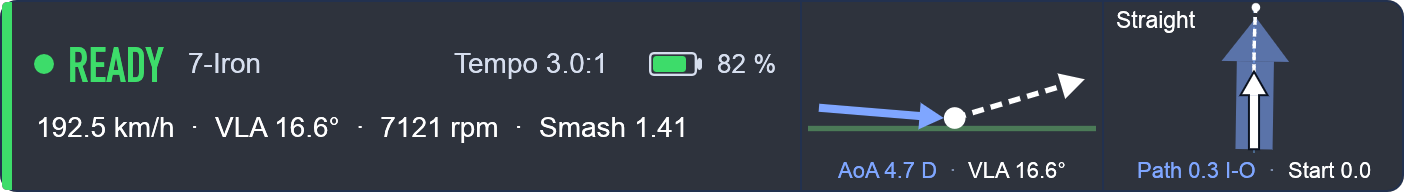
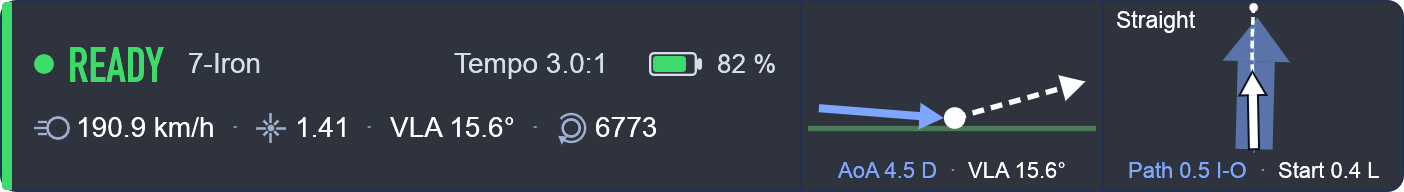
Overlay: symbols instead of words, speeds and smash side by side
Ball speed, club speed, smash, spin and distance to the pin get painted
symbols (ball with speed lines, club, burst, ball with arrow, flag) in
place of their labels; the speeds and the smash factor come first.

diff --git a/src/bin/openlaunch-connect.rs b/src/bin/openlaunch-connect.rs
@@ -1697,6 +1697,8 @@ struct OverlayContent {
     battery: Option<u8>,
     line: String,
     line_color: Color32,
+    /// The shot's values, each with its symbol (shown instead of `line` when there are any).
+    values: Vec<(Option<Glyph>, String)>,
     one_line: bool,
     opacity: f32,
     /// Angles for the impact graphics (when on and a shot is shown).
@@ -1741,18 +1743,19 @@ impl OverlayContent {
             .and_then(|s| s.tempo)
             .filter(|_| style.tempo && ready)
             .map(|t| format!("{} {:.1}:1", tr("Tempo"), t.ratio()));
+        let mut values = Vec::new();
         let (line, line_color) = match (last, ready) {
             (_, false) if r10 != R10Status::Ready => (tr_detail(r10_detail), AMBER),
             (_, false) => (tr("GSPro not connected").to_string(), AMBER),
             (Some(s), true) if !s.delivered => (tr("Last shot NOT delivered to GSPro").to_string(), AMBER),
             (Some(s), true) => {
-                let mut values = shot_values(s, style, metric);
-                values.extend(pin.filter(|_| style.to_pin));
+                values = shot_values(s, style, metric);
+                values.extend(pin.filter(|_| style.to_pin).map(|p| (Some(Glyph::Pin), p)));
                 // One line: the tempo joins the values instead of sitting next to the battery.
                 if style.one_line {
-                    values.extend(tempo.clone());
+                    values.extend(tempo.clone().map(|t| (None, t)));
                 }
-                (values.join("  ·  "), WHITE)
+                (String::new(), WHITE)
             }
             (None, true) => (tr("Hit away").to_string(), SOFT),
         };
@@ -1774,6 +1777,7 @@ impl OverlayContent {
             battery: battery.filter(|_| style.battery),
             line,
             line_color,
+            values,
             one_line: style.one_line,
             opacity: style.opacity,
         }
@@ -1784,13 +1788,21 @@ impl OverlayContent {
         let w = |text: &str, font: FontId| ctx.fonts_mut(|f| f.layout_no_wrap(text.to_string(), font, WHITE).size().x);
         let extra = |text: &Option<String>, gap: f32| text.as_deref().map_or(0.0, |t| gap + w(t, FontId::proportional(14.0)));
         let battery = if self.battery.is_some() { OVERLAY_BATTERY_W } else { 14.0 };
+        // The values with their symbols, or the message.
+        let line_w = if self.values.is_empty() {
+            w(&self.line, FontId::proportional(14.0))
+        } else {
+            let sep = w(VALUE_SEP, FontId::proportional(14.0));
+            self.values.iter().map(|(g, t)| w(t, FontId::proportional(14.0)) + if g.is_some() { GLYPH_W } else { 0.0 }).sum::<f32>()
+                + sep * (self.values.len() - 1) as f32
+        };
         let text = if self.one_line {
-            let line = if self.line.is_empty() { 0.0 } else { 16.0 + w(&self.line, FontId::proportional(14.0)) };
+            let line = if line_w == 0.0 { 0.0 } else { 16.0 + line_w };
             let width = 18.0 + 16.0 + w(self.word, cond(20.0)) + extra(&self.club, 12.0) + line + battery;
             vec2(width.ceil(), 40.0)
         } else {
             let top = 18.0 + 16.0 + w(self.word, cond(24.0)) + extra(&self.club, 12.0) + extra(&self.tempo, 24.0) + battery;
-            let bottom = 18.0 + w(&self.line, FontId::proportional(14.0)) + 14.0;
+            let bottom = 18.0 + line_w + 14.0;
             // Taller with the impact graphics, which have their values underneath.
             let h = if self.impact.is_some() { OVERLAY_IMPACT_H } else { OVERLAY_SIZE.y };
             vec2(top.max(bottom).max(OVERLAY_SIZE.x).ceil(), h)
@@ -1806,35 +1818,37 @@ impl OverlayContent {
 }
 
 /// The chosen values of a shot, e.g. "198.3 km/h", "VLA 16.5°", "7146 rpm".
-/// "Pin 139 m": the distance left to the pin, in metres or yards.
+/// "139 m": the distance left to the pin, in metres or yards (shown after a flag).
 fn pin_text(m: f64, meters: bool) -> String {
-    if meters { format!("{} {m:.0} m", tr("Pin")) } else { format!("{} {:.0} yd", tr("Pin"), m * M_TO_YD) }
+    if meters { format!("{m:.0} m") } else { format!("{:.0} yd", m * M_TO_YD) }
 }
 
-fn shot_values(s: &state::LastShot, style: &OverlayStyle, metric: bool) -> Vec<String> {
+/// The chosen values of a shot with their symbols: the speeds and the smash factor side by side,
+/// then the angles and the spin.
+fn shot_values(s: &state::LastShot, style: &OverlayStyle, metric: bool) -> Vec<(Option<Glyph>, String)> {
     let (factor, unit) = if metric { (MPH_TO_KMH, "km/h") } else { (1.0, "mph") };
     let b = &s.ball;
     let mut values = Vec::new();
     if style.ball_speed {
-        values.push(format!("{:.1} {unit}", b.speed * factor));
-    }
-    if style.vla {
-        values.push(format!("VLA {}°", num(b.vla, 1)));
-    }
-    if style.hla {
-        values.push(format!("HLA {}°", num(b.hla, 1)));
-    }
-    if style.spin {
-        values.push(format!("{:.0} rpm", b.total_spin));
-    }
-    if style.spin_axis {
-        values.push(format!("{} {}°", tr("Axis"), num(b.spin_axis, 1)));
+        values.push((Some(Glyph::BallSpeed), format!("{:.1} {unit}", b.speed * factor)));
     }
     if let Some(c) = s.club.as_ref().filter(|_| style.club_speed) {
-        values.push(format!("{} {:.1} {unit}", tr("Club"), c.speed * factor));
+        values.push((Some(Glyph::ClubSpeed), format!("{:.1} {unit}", c.speed * factor)));
     }
     if let Some(smash) = history::smash(b, s.club.as_ref()).filter(|_| style.smash) {
-        values.push(format!("Smash {smash:.2}"));
+        values.push((Some(Glyph::Smash), format!("{smash:.2}")));
+    }
+    if style.vla {
+        values.push((None, format!("VLA {}°", num(b.vla, 1))));
+    }
+    if style.hla {
+        values.push((None, format!("HLA {}°", num(b.hla, 1))));
+    }
+    if style.spin {
+        values.push((Some(Glyph::Spin), format!("{:.0}", b.total_spin)));
+    }
+    if style.spin_axis {
+        values.push((None, format!("{} {}°", tr("Axis"), num(b.spin_axis, 1))));
     }
     values
 }
@@ -1880,7 +1894,99 @@ fn overlay_ui(p: &egui::Painter, rect: Rect, c: &OverlayContent) {
         p.text(pos2(right, row_y), Align2::RIGHT_CENTER, tempo, FontId::proportional(14.0), SOFT);
     }
     let line_pos = if c.one_line { pos2(x + 16.0, row_y) } else { pos2(left, rect.bottom() - inset) };
-    p.text(line_pos, Align2::LEFT_CENTER, &c.line, FontId::proportional(14.0), c.line_color);
+    if c.values.is_empty() {
+        p.text(line_pos, Align2::LEFT_CENTER, &c.line, FontId::proportional(14.0), c.line_color);
+        return;
+    }
+    let mut x = line_pos.x;
+    for (k, (glyph, text)) in c.values.iter().enumerate() {
+        if k > 0 {
+            x = p.text(pos2(x, line_pos.y), Align2::LEFT_CENTER, VALUE_SEP, FontId::proportional(14.0), MUTED).right();
+        }
+        if let Some(g) = glyph {
+            draw_glyph(p, pos2(x + GLYPH_W / 2.0 - 2.0, line_pos.y), *g, LABEL);
+            x += GLYPH_W;
+        }
+        x = p.text(pos2(x, line_pos.y), Align2::LEFT_CENTER, text, FontId::proportional(14.0), WHITE).right();
+    }
+}
+
+/// Between two values in the overlay.
+const VALUE_SEP: &str = "  ·  ";
+/// Room for a value's symbol in front of it.
+const GLYPH_W: f32 = 20.0;
+
+/// Symbols in front of the overlay's values.
+#[derive(Clone, Copy, PartialEq, Eq, Debug)]
+enum Glyph {
+    /// A ball with speed lines: ball speed.
+    BallSpeed,
+    /// A club head: club speed.
+    ClubSpeed,
+    /// A burst: smash factor.
+    Smash,
+    /// A ball with an arrow around it: spin.
+    Spin,
+    /// A flag: distance to the pin.
+    Pin,
+}
+
+/// A 16 px symbol centred on `c`.
+fn draw_glyph(p: &egui::Painter, c: egui::Pos2, glyph: Glyph, color: Color32) {
+    let s = Stroke::new(1.4, color);
+    match glyph {
+        Glyph::BallSpeed => {
+            p.circle_stroke(c + vec2(3.0, 0.0), 4.6, s);
+            for (dy, len) in [(-3.0, 4.0), (0.0, 6.0), (3.0, 4.0)] {
+                p.line_segment([c + vec2(-2.8 - len, dy), c + vec2(-2.8, dy)], Stroke::new(1.2, color));
+            }
+        }
+        Glyph::ClubSpeed => {
+            // Shaft from the top right to a wood's head at the bottom left.
+            p.line_segment([c + vec2(6.5, -7.5), c + vec2(0.5, 2.5)], Stroke::new(1.2, color));
+            let head: Vec<egui::Pos2> = (0..16)
+                .map(|k| {
+                    let a = k as f32 / 16.0 * std::f32::consts::TAU;
+                    c + vec2(-2.5 + 4.6 * a.cos(), 4.6 + 2.6 * a.sin())
+                })
+                .collect();
+            p.add(egui::Shape::convex_polygon(head, color, Stroke::NONE));
+        }
+        Glyph::Smash => {
+            for k in 0..8 {
+                let a = k as f32 / 8.0 * std::f32::consts::TAU;
+                let (inner, outer) = if k % 2 == 0 { (2.5, 7.5) } else { (2.5, 5.0) };
+                p.line_segment([c + vec2(a.cos(), a.sin()) * inner, c + vec2(a.cos(), a.sin()) * outer], Stroke::new(1.3, color));
+            }
+            p.circle_filled(c, 1.6, color);
+        }
+        Glyph::Spin => {
+            p.circle_stroke(c, 3.6, s);
+            // Most of a circle around the ball, ending in an arrow head.
+            let r = 7.0;
+            let pts: Vec<egui::Pos2> = (0..=20)
+                .map(|k| {
+                    let a = -2.4 + k as f32 / 20.0 * 4.6;
+                    c + vec2(a.cos(), a.sin()) * r
+                })
+                .collect();
+            let end = pts[pts.len() - 1];
+            p.add(egui::Shape::line(pts, Stroke::new(1.2, color)));
+            let a: f32 = -2.4 + 4.6;
+            let tangent = vec2(-a.sin(), a.cos());
+            let normal = vec2(a.cos(), a.sin());
+            p.add(egui::Shape::convex_polygon(
+                vec![end + tangent * 3.0, end - tangent * 1.0 + normal * 2.5, end - tangent * 1.0 - normal * 2.5],
+                color,
+                Stroke::NONE,
+            ));
+        }
+        Glyph::Pin => {
+            p.line_segment([c + vec2(-3.0, 7.0), c + vec2(-3.0, -7.0)], s);
+            p.add(egui::Shape::convex_polygon(vec![c + vec2(-2.5, -7.0), c + vec2(6.0, -4.3), c + vec2(-2.5, -1.6)], RED, Stroke::NONE));
+            p.line_segment([c + vec2(-6.0, 7.0), c + vec2(0.0, 7.0)], Stroke::new(1.2, color));
+        }
+    }
 }
 
 /// A shot shape's name in the language shown ("Straight" is the only one golfers translate).

diff --git a/src/i18n.rs b/src/i18n.rs
@@ -200,7 +200,6 @@ fn de(en: &str) -> Option<&'static str> {
         "Language" => "Sprache",
         "System" => "System",
         "Interface" => "Oberfläche",
-        "Pin" => "Fahne",
         "Distance to the pin" => "Zur Fahne",
         "Carry, total, apex, side and landing angle as GSPro computed them" => "Carry, Gesamt, Scheitelhöhe, Seitlich und Landewinkel so, wie GSPro sie berechnet hat",
         "GSPro results" => "GSPro-Werte",

diff --git a/CHANGELOG.md b/CHANGELOG.md
@@ -6,6 +6,11 @@ The format is based on [Keep a Changelog](https://keepachangelog.com/en/1.1.0/),
 
 ## [Unreleased]
 
+### Changed
+- **Overlay values with symbols** instead of words, to save room: a ball for the ball speed, a club for the club
+  speed, a burst for the smash factor, a ball with an arrow for the spin and a flag for the distance to the pin. Ball
+  speed, club speed and smash factor now stand side by side.
+
 ### Added
 - **Distance to the pin in the overlay** (Overlay page → *Distance to the pin*): after a shot on a course, the overlay
   shows how far the ball is left from the pin, from GSPro's results (e.g. *Pin 139 m*, in yards with yd).
